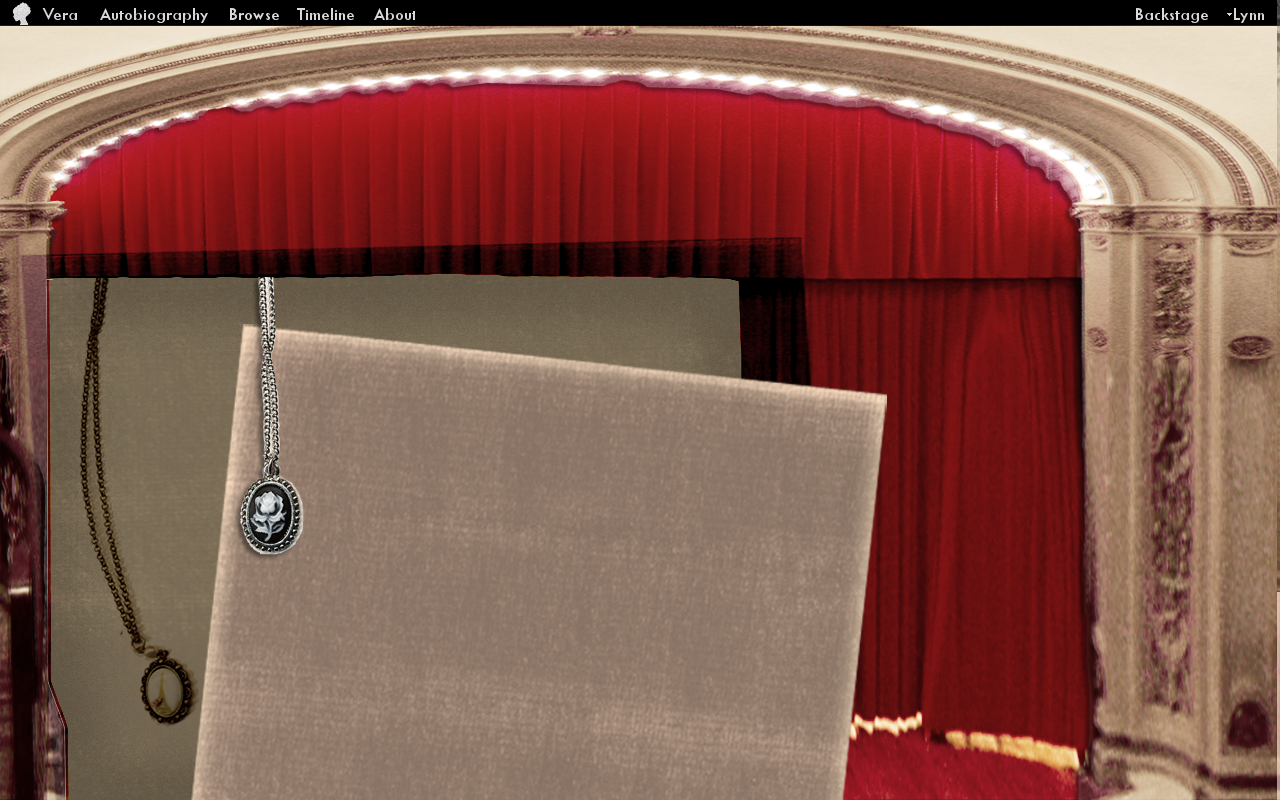
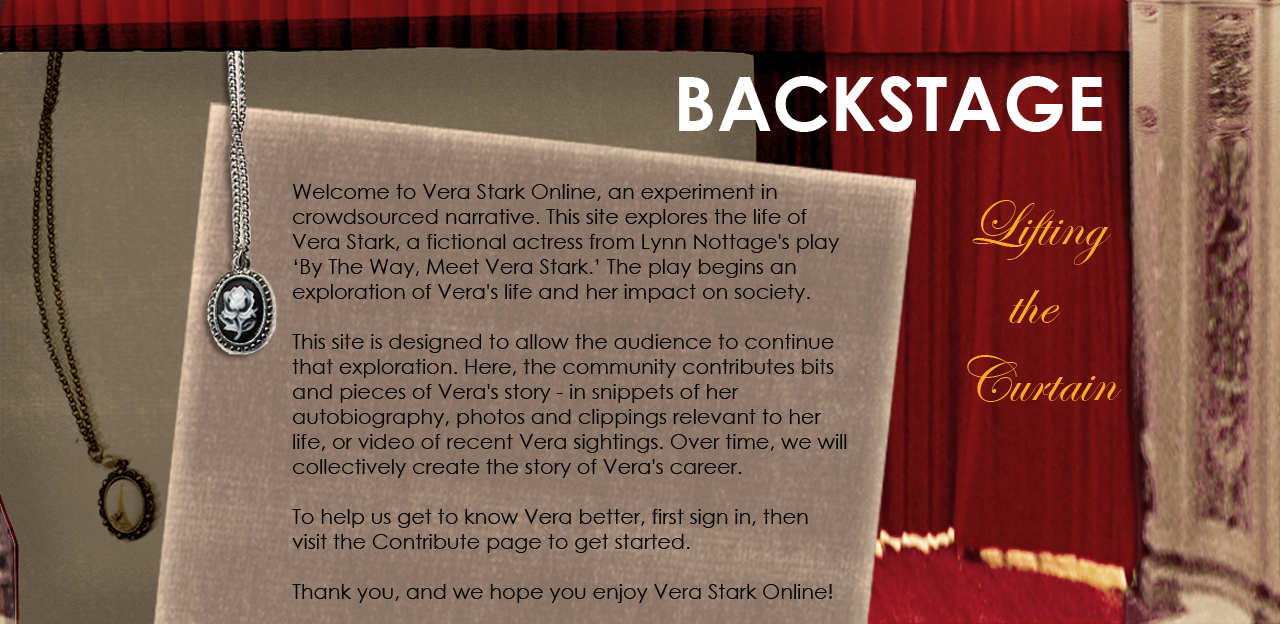
backstage edits

diff --git a/main/webapp/backstage.html b/main/webapp/backstage.html
@@ -47,32 +47,20 @@
       </ul>
     </nav>
   </header>
+<img src="/img/vera_backstage.png"/>
   <div id="main" role="main" class="lift:surround?with=default?at=content clearfix">
   
     <!-- Main artifact -->
     <div id="content" class="static_page">
       <div class="floatcenter">
           <div class="matwrap text">
+
             <section class="static_page">
               <span class="flourish"></span>
-              <p>Welcome to <em>Vera Stark Online</em>, a experiment in crowdsourced narrative.
-                 This site explores the life of Vera Stark, a fictional actress from Lynn Nottage's
-                 play <em>By The Way, Meet Vera Stark.</em>  The play begins an exploration of Vera's
-                 life and her impact on society.
-                 </p>
-              <p>This site is designed to allow the audience to continue that exploration.  Here,
-                 the community contributes bits and pieces of Vera's story - in snippets of her
-                 autobiography, photos and clippings relevant to her life, or video of recent
-                 Vera sightings.  Over time, we will collectively create the story of Vera's career.
-                 </p>
-              <p>To help us get to know Vera better, first <a href="/user_mgt/login">sign in</a>, then visit
-                 the <a href="/contribute">Contribute</a> page to get started.
-                 </p>
-              <p>Thank you, and we hope you enjoy <em>Vera Stark Online!</em>
-                 </p>
-              <span class="flourish"></span>
+<p><b><center>A Few Notes on Technology:
+</p></b></center>
               <p>This site utilizes a number of open web technologies.
-                 </p>
+              </p>
               <p><a href="http://openid.net/">OpenID</a> is a safe and easy way to log in to web sites.
                  Through OpenID, you can sign in to this website using your Google or Yahoo! account, or
                  using one of many other providers.
